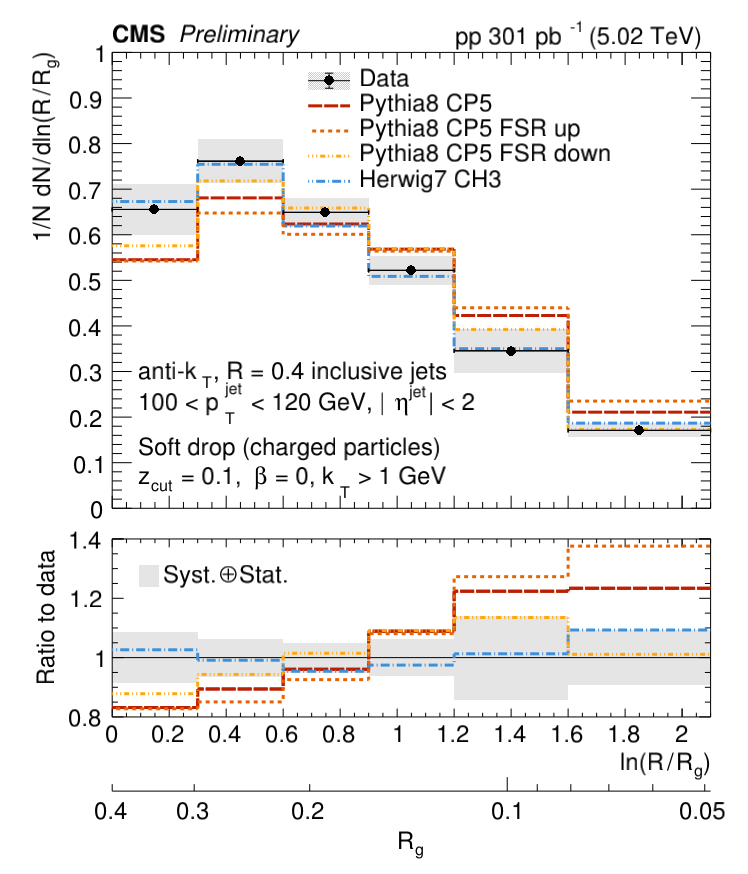
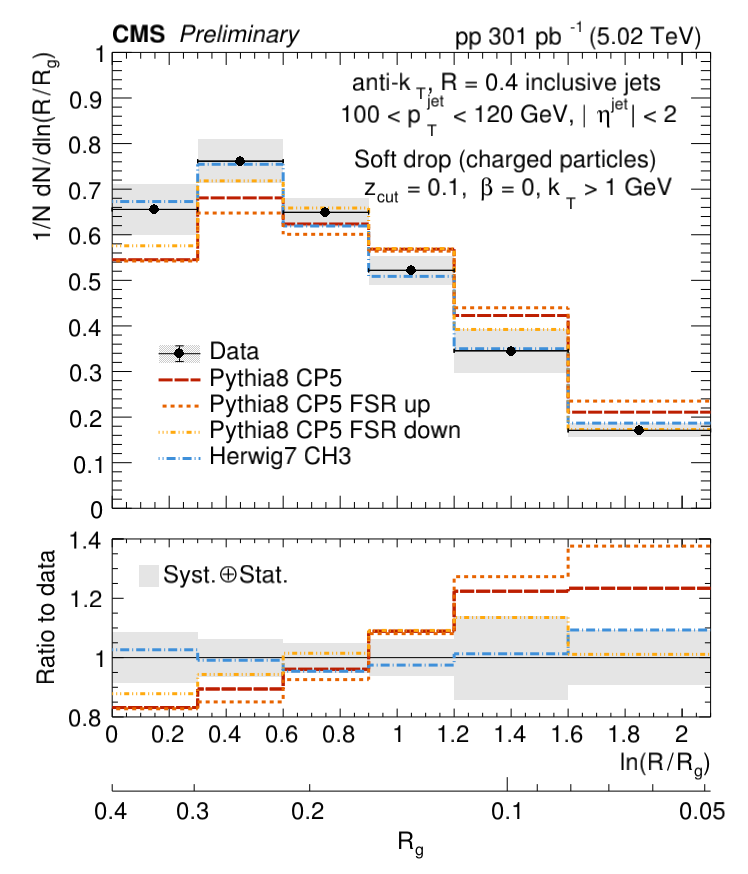
ratio unc color back to gray and fix text clipping for inclusive jts

Changed region(s): [[0.3997, 0.0618, 0.9225, 0.2471], [0.1845, 0.3707, 0.615, 0.5561], [0.615, 0.4325, 0.6457, 0.4634]]

diff --git a/myMacros/C106X/draw_data_vs_mc.C b/myMacros/C106X/draw_data_vs_mc.C
@@ -303,7 +303,8 @@ void draw_data_vs_mc(TString observable="rg")
     TLegend *leg;
     if (observable=="zpt") leg = new TLegend(0.22, 0.3, 0.54, 0.55);
     else leg = new TLegend(0.18, 0.05, 0.5, 0.3);
-    if (inclusive) leg = new TLegend(0.4, 0.63, 0.8, 0.87);
+    // if (inclusive) leg = new TLegend(0.4, 0.63, 0.8, 0.87);
+    if (inclusive) leg = new TLegend(0.2, 0.1, 0.6, 0.35);
     leg->SetBorderSize(0);
     leg->SetFillStyle(0);
     leg->SetMargin(0.2);
@@ -399,11 +400,16 @@ void draw_data_vs_mc(TString observable="rg")
         jet_info->DrawLatex(0.9, 0.57, "z_{cut} = 0.1, #beta = 0, k_{T} > 1 GeV");
     }
     if (inclusive) {
-        jet_info->SetTextAlign(10);
-        jet_info->DrawLatex(0.185, 0.26, "anti-k_{T}, R = 0.4 inclusive jets");
-        jet_info->DrawLatex(0.185, 0.19, "100 < p_{T}^{jet} < 120 GeV, |#eta^{jet}| < 2");
-        jet_info->DrawLatex(0.185, 0.12, "Soft drop (charged particles)");
-        jet_info->DrawLatex(0.185, 0.05, "z_{cut} = 0.1, #beta = 0, k_{T} > 1 GeV");
+        // jet_info->SetTextAlign(10);
+        // jet_info->DrawLatex(0.185, 0.26, "anti-k_{T}, R = 0.4 inclusive jets");
+        // jet_info->DrawLatex(0.185, 0.19, "100 < p_{T}^{jet} < 120 GeV, |#eta^{jet}| < 2");
+        // jet_info->DrawLatex(0.185, 0.12, "Soft drop (charged particles)");
+        // jet_info->DrawLatex(0.185, 0.05, "z_{cut} = 0.1, #beta = 0, k_{T} > 1 GeV");
+        jet_info->SetTextAlign(30); // works with PDF
+        jet_info->DrawLatex(0.91, 0.81, "anti-k_{T}, R = 0.4 inclusive jets");
+        jet_info->DrawLatex(0.91, 0.74, "100 < p_{T}^{jet} < 120 GeV, |#eta^{jet}| < 2");
+        jet_info->DrawLatex(0.91, 0.67, "Soft drop (charged particles)");
+        jet_info->DrawLatex(0.91, 0.6, "z_{cut} = 0.1, #beta = 0, k_{T} > 1 GeV");
     }  
 
     bottom_pad->cd();
